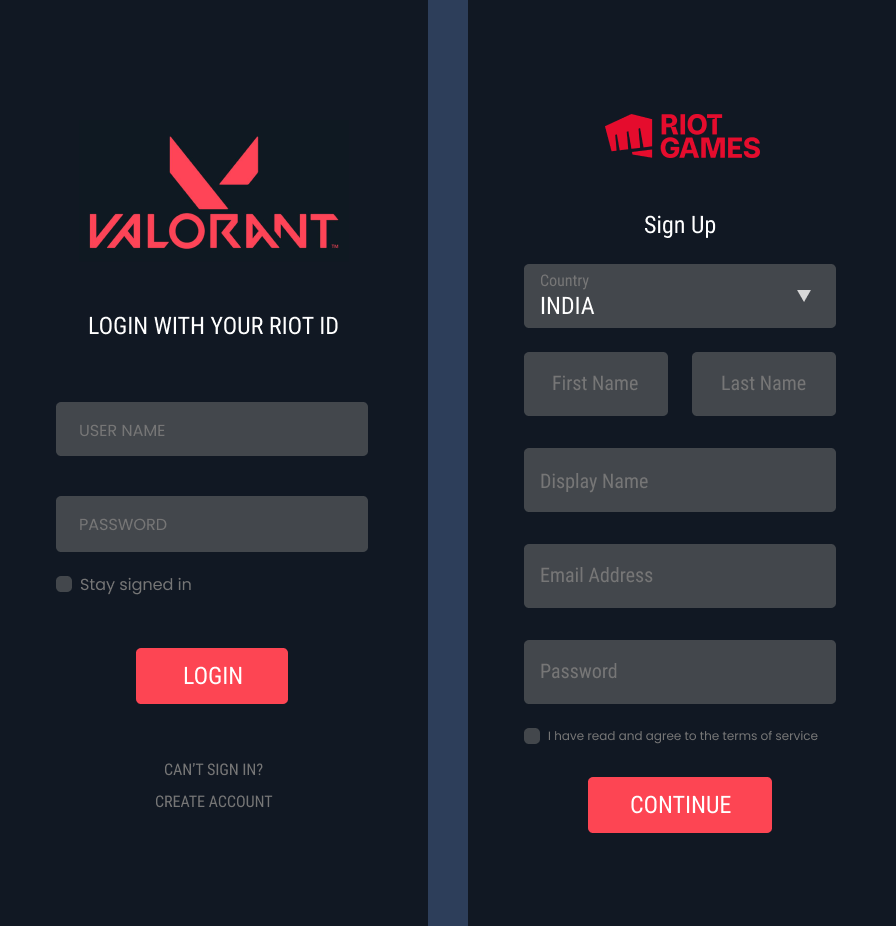
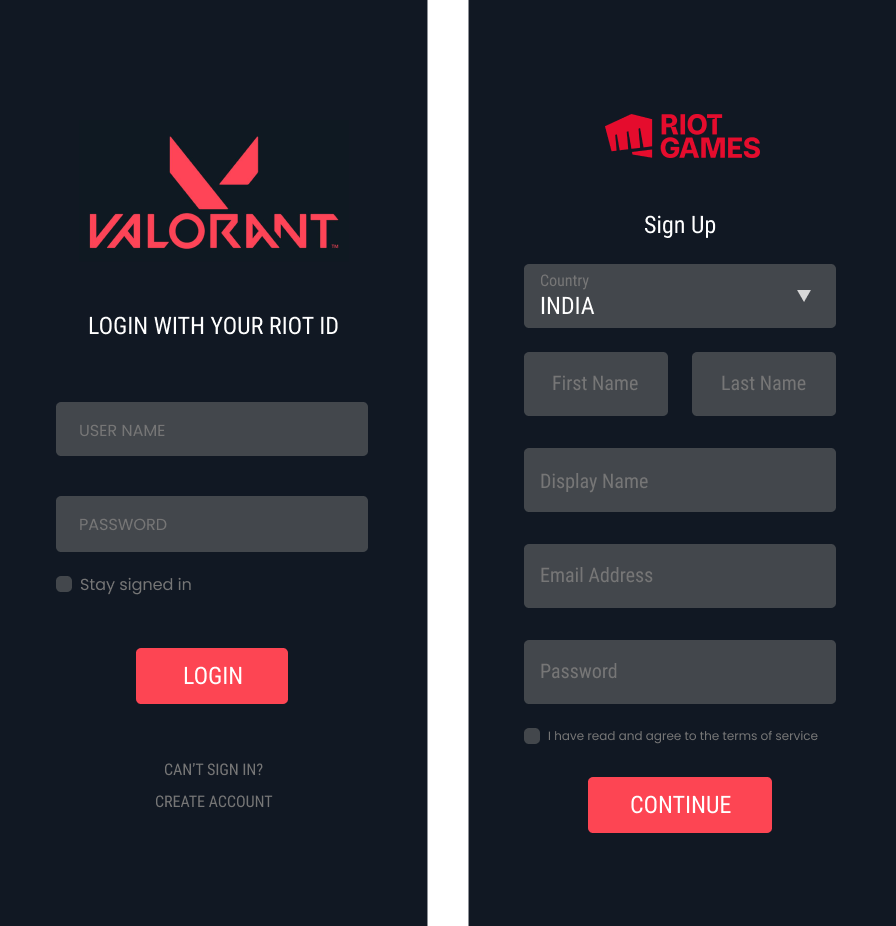
drop shadow

Changed region(s): [[0.4688, 0.0, 0.5312, 1.0]]

diff --git a/styles.css b/styles.css
@@ -332,21 +332,25 @@ a{
 
     .pr1{
     width: 400px;
+    box-shadow: 0 4px 8px 0 rgba(0, 0, 0, 0.2), 0 6px 20px 0 rgba(0, 0, 0, 0.19);
     
   }
   .pr1k{
     margin: 0px;
     width: 400px;
+    box-shadow: 0 4px 8px 0 rgba(0, 0, 0, 0.2), 0 6px 20px 0 rgba(0, 0, 0, 0.19);
   
 }
   .pr1k1{
    margin: 0px;
     width: 400px;
     height: 400px;
+    box-shadow: 0 4px 8px 0 rgba(0, 0, 0, 0.2), 0 6px 20px 0 rgba(0, 0, 0, 0.19);
   }
   .pr1l{
     width: 400px;
     height: 300px;
+    box-shadow: 0 4px 8px 0 rgba(0, 0, 0, 0.2), 0 6px 20px 0 rgba(0, 0, 0, 0.19);
    }
    .ok {
     margin: auto;
